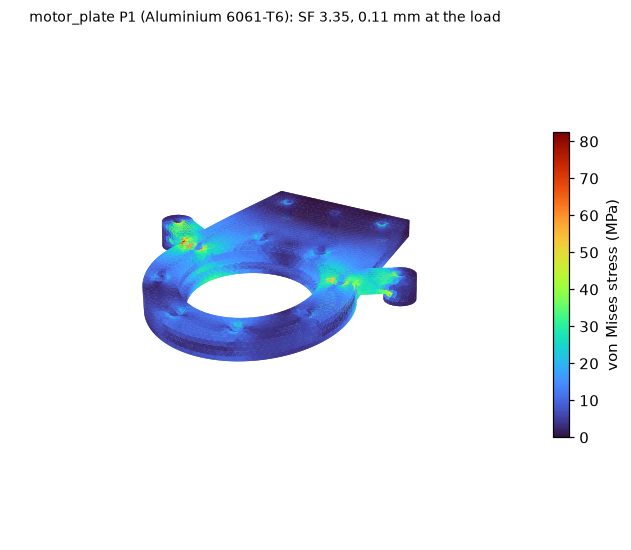
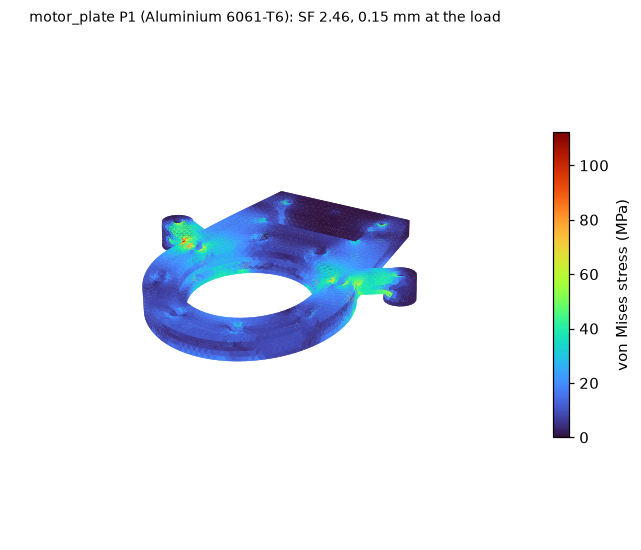
Lighter motor plates (344 g, was 418: ring pockets, tab window; SF 2.46) and a yoke as wide as its motors
The yoke's side flanges now clear the bigger motor and the plates' rings and tabs (the RS-04, 120 mm across, used to
cut into the 110 mm yoke: half the optimiser's candidates failed on that). Both motors clash-free at the deepest yoke.

Changed region(s): [[0.2108, 0.34, 0.6624, 0.68], [0.8431, 0.2164, 0.9937, 0.8036], [0.0602, 0.0, 0.7829, 0.0618]]

diff --git a/cad/gmi.py b/cad/gmi.py
@@ -174,6 +174,10 @@ def motor_plate(part_id: str, size: str = 'L', thick_extra: float = 1.0):
                                                                (ring_r * 0.95, ring_r * 0.35), (-ring_r * 0.95, ring_r * 0.35)]).close()
            .extrude(min(10.0, z_top - lug_z)).translate((0, 0, max(0.0, z_top - lug_z - 10.0))))
     p = p.union(tab)
+    win_z0, win_z1 = ring_r + 8.0, tab_top - 18.0                         # a window in the tab, a 10 mm frame left round it
+    if win_z1 - win_z0 > 8:
+        p = p.cut(cq.Workplane('XY').workplane(offset=lug_z - 1).center(0, (win_z0 + win_z1) / 2)
+                  .rect(2 * (s['plate_r'] * 0.55 - 12), win_z1 - win_z0).extrude(z_top - lug_z + 2))
     for k in range(s['bracket_bolts']):
         x = (k - (s['bracket_bolts'] - 1) / 2) * s['plate_r'] * 0.4
         p = p.cut(_cyl(tap(s['bracket_thread']) / 2, lug_z - 1, z_top + 1, x, tab_top - 8))
@@ -186,7 +190,28 @@ def motor_plate(part_id: str, size: str = 'L', thick_extra: float = 1.0):
     # the bore: clears the rotating shoulder (lip), then the bearing seat
     p = p.cut(_cyl(s['lip_d'] / 2, lug_z - 1, z_top + 1))
     p = p.cut(_cyl(s['bearing_od'] / 2 + 0.01, z_bear0, z_top + 1))
-    return p, {'part': part_id, 'z': (lug_z, z_top), 'bearing_z': (z_bear0, z_bear1), 'tab_z': (max(lug_z, z_top - 10.0), z_top), 'tab_top': tab_top, 'material': 'al6061',
+    # lightening pockets in the ring between the lug screws, from the motor side, 6 mm deep (the lug faces, the bearing
+    # seat and the leg-side face stay whole)
+    r_in, r_out = s['bearing_od'] / 2 + 3.0, ring_r - 3.0
+    if r_out - r_in > 6:
+        angs = sorted(b['angles'])
+        for k, a0 in enumerate(angs):
+            a1 = angs[(k + 1) % len(angs)] + (360 if k == len(angs) - 1 else 0)
+            mid, span = (a0 + a1) / 2, (a1 - a0)
+            half = max(0.0, span / 2 - math.degrees((clear(b['thread']) * 0.95 + 3.0) / (b['pcd'] / 2)))
+            if half < 4:
+                continue
+            sector = (cq.Workplane('XY').workplane(offset=lug_z - 0.01)
+                      .moveTo(r_in * math.cos(math.radians(mid - half)), r_in * math.sin(math.radians(mid - half)))
+                      .lineTo(r_out * math.cos(math.radians(mid - half)), r_out * math.sin(math.radians(mid - half)))
+                      .threePointArc((r_out * math.cos(math.radians(mid)), r_out * math.sin(math.radians(mid))),
+                                     (r_out * math.cos(math.radians(mid + half)), r_out * math.sin(math.radians(mid + half))))
+                      .lineTo(r_in * math.cos(math.radians(mid + half)), r_in * math.sin(math.radians(mid + half)))
+                      .threePointArc((r_in * math.cos(math.radians(mid)), r_in * math.sin(math.radians(mid))),
+                                     (r_in * math.cos(math.radians(mid - half)), r_in * math.sin(math.radians(mid - half))))
+                      .close().extrude(min(6.0, z_bear0 - lug_z + 4.0)))
+            p = p.cut(sector)
+    return p, {'part': part_id, 'z': (lug_z, z_top), 'bearing_z': (z_bear0, z_bear1), 'tab_z': (max(lug_z, z_top - 10.0), z_top), 'tab_top': tab_top, 'ring_r': ring_r, 'material': 'al6061',
                'note': f"CNC 6061-T6; {s['bearing']} support bearing, circlips DIN 472/471", 'assumed': mi['assumed']}
 
 

diff --git a/cad/leg.py b/cad/leg.py
@@ -152,7 +152,10 @@ def yoke_bracket(S: Stack, L: dict):
     y0, y1 = S.y['bracket'][0], ydk + t
     deck_z = tab_top + 4 + 1 + t / 2              # the plate tabs reach 4 mm above tab_top; the deck clears them by 1 mm
     top = deck_z + t / 2
-    W = 110.0
+    # wide enough that the side flanges clear the bigger of the two motors and the motor plates' tabs and rings
+    ring = max(S.hip['plate'].get('ring_r', 58.0), S.knee['plate'].get('ring_r', 58.0))
+    od = max(S.hip['od'] or 100.0, S.knee['od'] or 100.0)
+    W = 2 * (max(55.0, od / 2 + 4.0, ring + 3.0) + t)
     z_low = -12.0                                 # the wall flange reaches down the chassis side (HM rows at z = 0 and 60)
     wall = cq.Workplane('XY').box(W, t, top - z_low).translate((0, y0 + t / 2, (top + z_low) / 2))
     deck = cq.Workplane('XY').box(W, y1 - y0, t).translate((0, (y0 + y1) / 2, deck_z))
